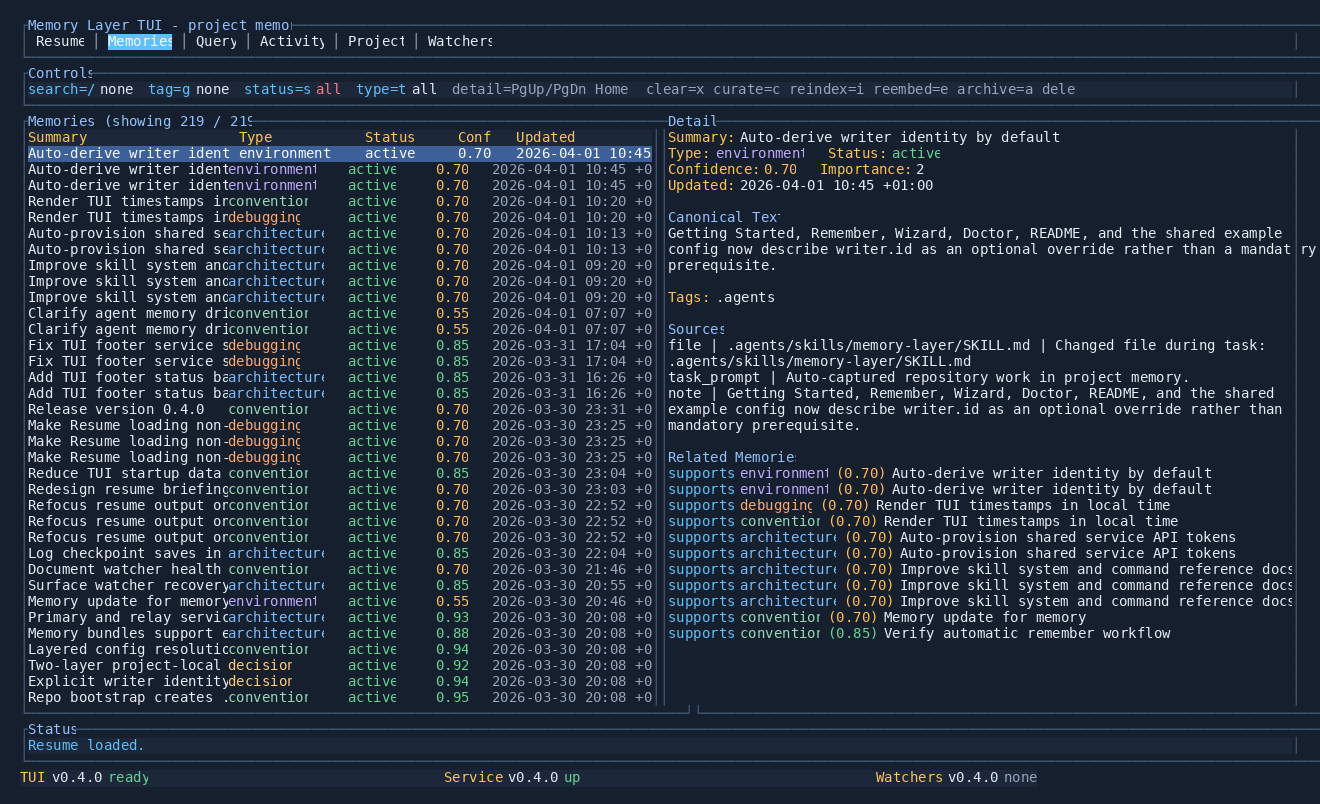
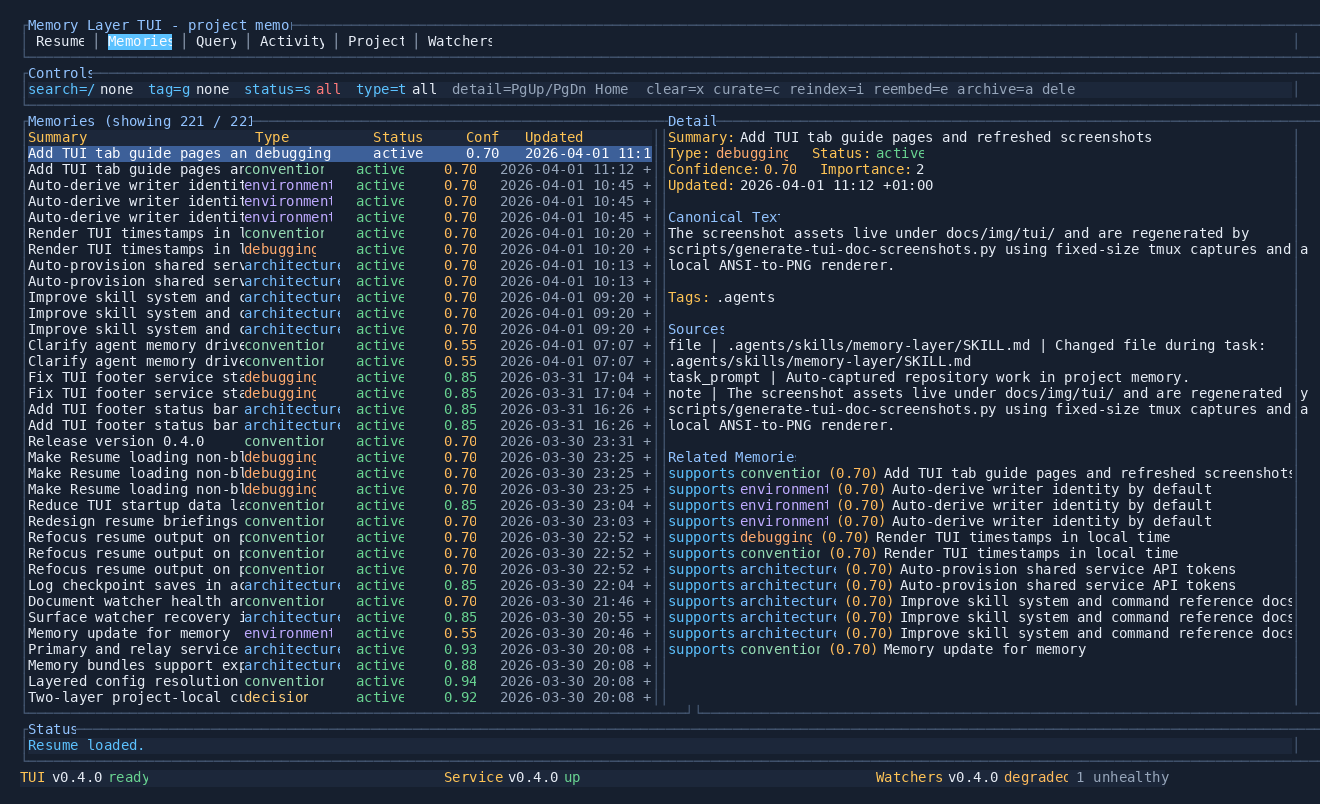
Fix: add spacing to TUI tables

diff --git a/crates/mem-cli/src/tui.rs b/crates/mem-cli/src/tui.rs
@@ -1680,12 +1680,13 @@ fn draw_memories_tab(frame: &mut ratatui::Frame<'_>, app: &App, area: Rect) {
         rows,
         [
             Constraint::Percentage(34),
-            Constraint::Length(14),
+            Constraint::Length(13),
             Constraint::Length(10),
             Constraint::Length(6),
-            Constraint::Length(20),
+            Constraint::Length(19),
         ],
     )
+    .column_spacing(1)
     .header(header)
     .row_highlight_style(
         Style::default()
@@ -2267,11 +2268,12 @@ fn draw_query_tab(frame: &mut ratatui::Frame<'_>, app: &App, area: Rect) {
         rows,
         [
             Constraint::Percentage(52),
-            Constraint::Length(14),
+            Constraint::Length(13),
             Constraint::Length(10),
             Constraint::Length(8),
         ],
     )
+    .column_spacing(1)
     .header(header)
     .row_highlight_style(
         Style::default()
@@ -2651,11 +2653,12 @@ fn draw_activity_tab(frame: &mut ratatui::Frame<'_>, app: &App, area: Rect) {
     let table = Table::new(
         rows,
         [
-            Constraint::Length(17),
-            Constraint::Length(12),
+            Constraint::Length(16),
+            Constraint::Length(11),
             Constraint::Percentage(100),
         ],
     )
+    .column_spacing(1)
     .header(header)
     .row_highlight_style(
         Style::default()
